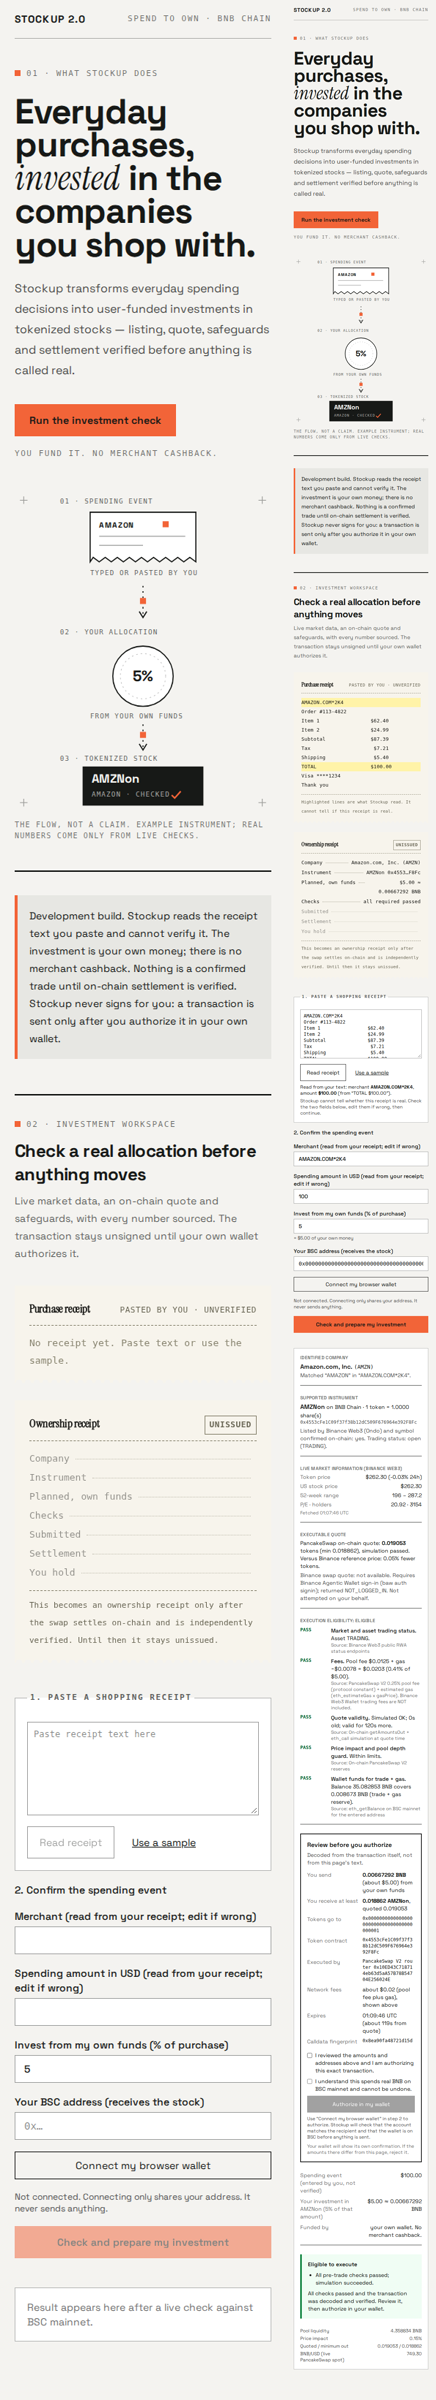
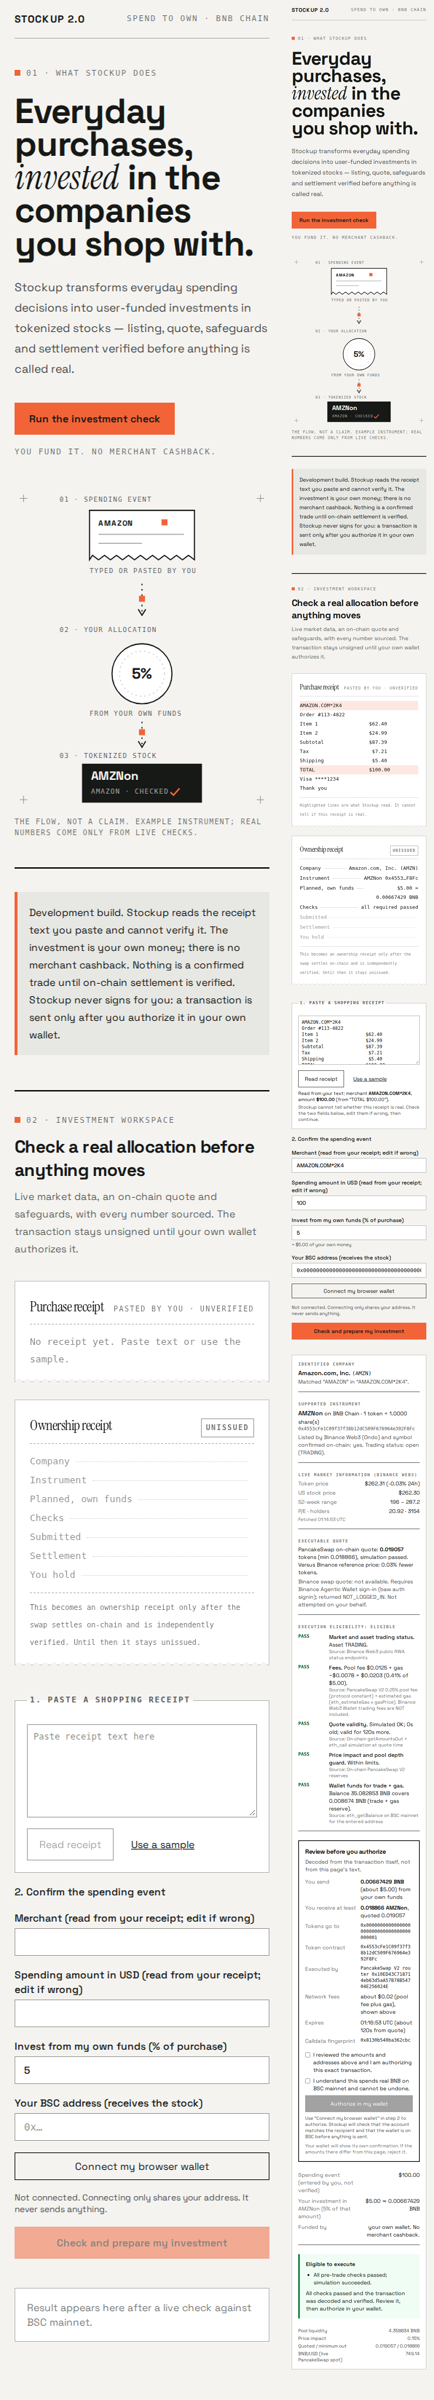
design system propagated to remaining surfaces; evidence re-captured at 1440/390; contact sheets refreshed; gates green

diff --git a/docs/CURRENT_STATE.md b/docs/CURRENT_STATE.md
@@ -219,3 +219,9 @@ Last updated: 2026-10-10 ~18:50 UTC (VPS clock). Branch `dev/foundation`. Latest
 
 ## Design probe evidence set (dev/design-probe, 2026-10-11 ~01:10 UTC VPS clock)
 - Re-captured at 1440px (judging-video width) + 390px: landing fold and populated workspace. Superseded 1280px captures removed from HEAD (history keeps them). Zero overflow, no errors at all four widths/2 viewports. Commit follows.
+
+## Design system propagation complete (dev/design-probe, 2026-10-11 ~01:15 UTC VPS clock)
+- docs/DESIGN.md locked: palette (paper/ink/mist/vermilion/white), Space Grotesk Variable + Instrument Serif (OFL, bundled), dotted-leader + square-station motif, component rules, reference provenance, standing slop-lint rules.
+- Propagated class-level only: receipt pair (white/ink panels, serif headers, mono micro-labels, parser highlight now vermilion/15), all workspace section headers to mono micro style, connect/verify buttons to ink outline, get-receipt/authorize to ink fill, review + receipt panels to 2px ink. Semantic green/red/amber kept for check states only. No logic, copy, API, wallet, or test changes.
+- Gates: typecheck OK; 86/86 tests; build OK. Evidence re-captured at 1440px + 390px (landing + populated workspace via read-only live check): zero overflow, no console/page errors. Contact sheets refreshed.
+- Stops held: no deploy, main untouched, repo private, nothing signed or sent.
